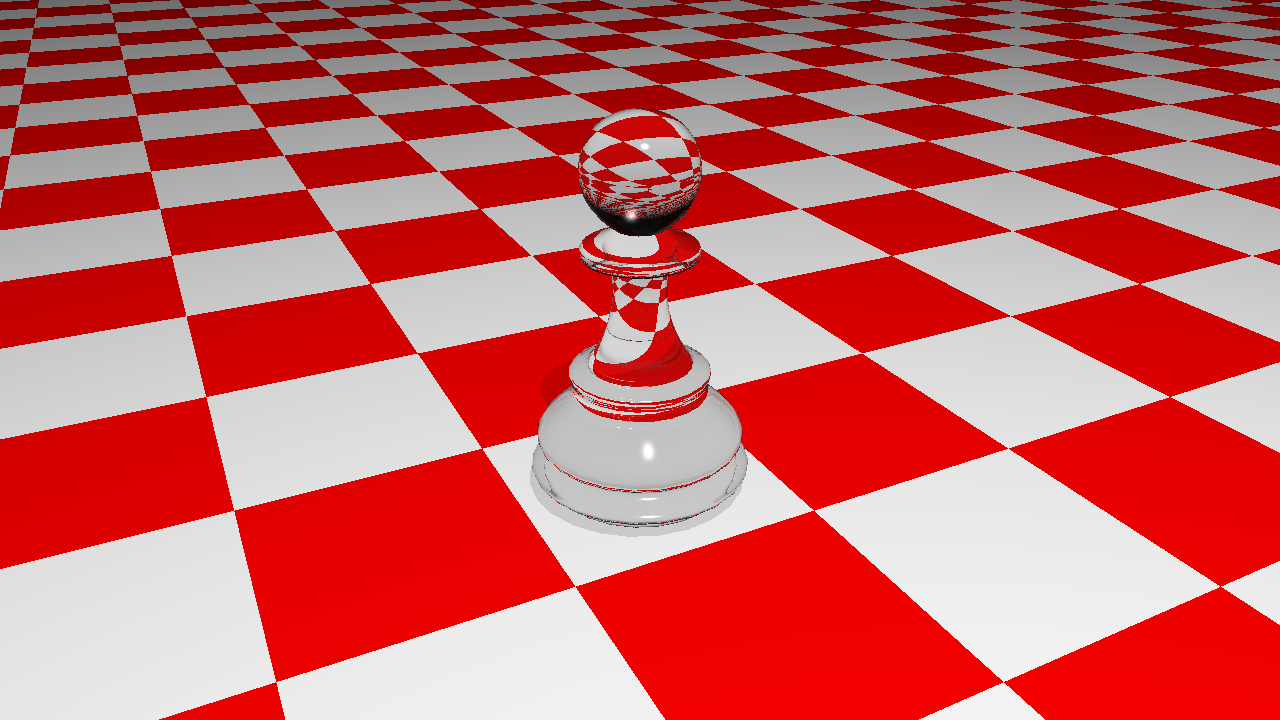
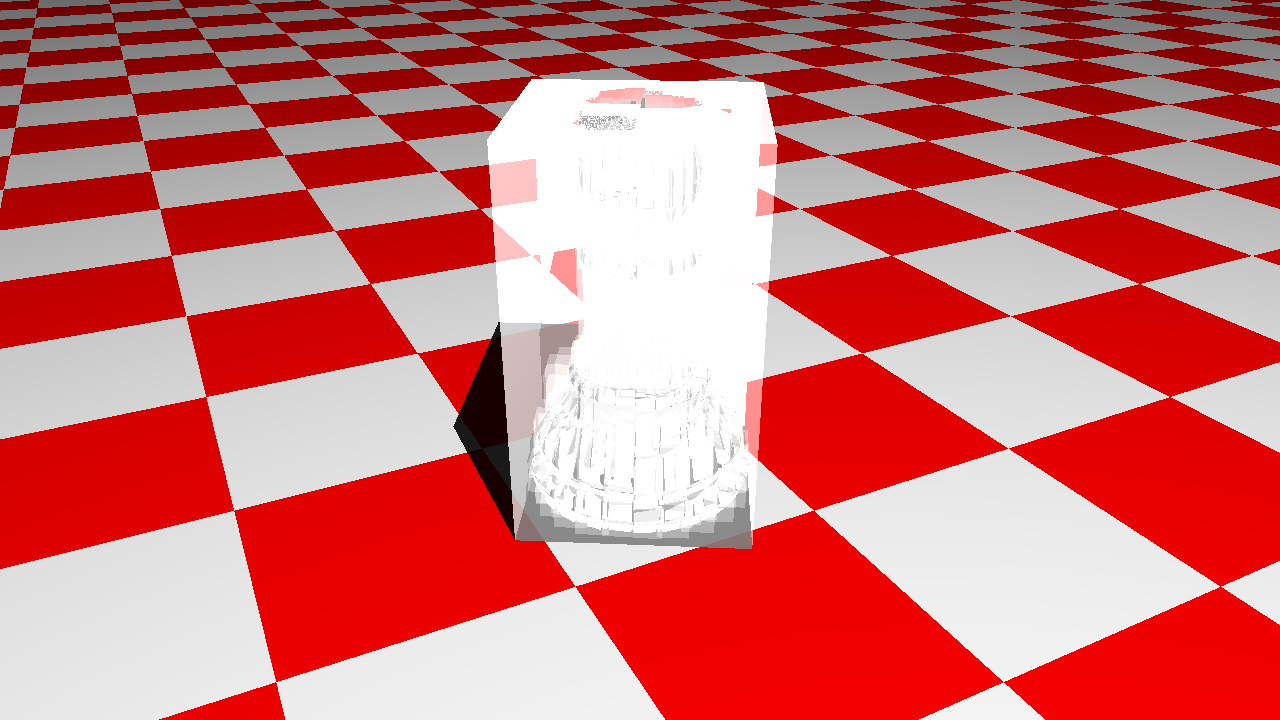
BV Debug renderer - pawn debug view

Changed region(s): [[0.3438, 0.0917, 0.625, 0.7639]]

diff --git a/ray_tracer/src/scene_tree/flatten.rs b/ray_tracer/src/scene_tree/flatten.rs
@@ -16,10 +16,10 @@ impl Default for FlattenSceneOptions {
         Self {
             bounding_volume_debug: BoundingVolumeDebug::Off,
         }
-    }    
+    }
 }
 
-impl From<RenderPreferences> for FlattenSceneOptions{
+impl From<RenderPreferences> for FlattenSceneOptions {
     fn from(value: RenderPreferences) -> Self {
         Self {
             bounding_volume_debug: value.bounding_volume_debug,
@@ -160,6 +160,24 @@ impl SceneTree {
                                     // TODO decide if we want this oversizing on the actual BV, not just the representation
                                     bounds2.matrix = bounds2.matrix * matrix4x4!(scale_all(1.01));
                                     bounds2.material.transparency = 0.9;
+                                    into.push(Chain::Shape(bounds2.to_intersectable()));
+                                }
+                                BoundingVolumeDebug::Solid => {
+                                    // display bounds
+                                    let mut bounds2 = bounds.clone();
+                                    // TODO decide if we want this oversizing on the actual BV, not just the representation
+                                    bounds2.matrix = bounds2.matrix * matrix4x4!(scale_all(1.01));
+                                    // keep only other subtrees
+                                    subtree = subtree
+                                        .into_iter()
+                                        .filter(|f| match f {
+                                            Chain::BoundingVolume(_, _) => true,
+                                            _ => false,
+                                        })
+                                        .collect();
+                                    if !subtree.is_empty() {
+                                        bounds2.material.transparency = 0.9;
+                                    }
                                     into.push(Chain::Shape(bounds2.to_intersectable()));
                                 }
                             }

diff --git a/demo/src/test_scenes/chess_pawn.rs b/demo/src/test_scenes/chess_pawn.rs
@@ -8,7 +8,7 @@ use ray_tracer::material::Material;
 use ray_tracer::material::pattern::Pattern;
 use ray_tracer::transform::Transform;
 use ray_tracer::view_matrix::ViewMatrix;
-use ray_tracer::world::World;
+use ray_tracer::world::{BoundingVolumeDebug, World};
 use ray_tracer::{plane, scene};
 use std::default::Default;
 
@@ -24,6 +24,7 @@ still!(
     };
     world: | world: &mut World | {
         world.add_light(PointLight::new(point!(2, 20, 10), *WHITE));
+        world.render_preferences.bounding_volume_debug = BoundingVolumeDebug::Translucent;
     };
     scene: {
         scene!(

diff --git a/demo/src/test_scenes/grid.rs b/demo/src/test_scenes/grid.rs
@@ -14,7 +14,7 @@ still!(
     camera: | size| Camera::new(size, degrees!(120));
     world: | world: &mut World | {
         world.add_light(PointLight::new(point!(10, 10, 7), *WHITE));
-        // world.render_preferences.bounding_volume_debug = BoundingVolumeDebug::Translucent;
+        world.render_preferences.bounding_volume_debug = BoundingVolumeDebug::Solid;
     };
     scene: {
         let mut root = SceneTree::default();

diff --git a/demo/src/obj_loader.rs b/demo/src/obj_loader.rs
@@ -58,9 +58,9 @@ impl ObjLoader {
 
         let m1 = complete_aabb.to_bounding_range();
         let m2 = complete_aabb2.to_bounding_range();
-        if m1 != m2 {
-            panic!("{:?} != {:?}", m1, m2)
-        }
+        // if m1 != m2 {
+        //     panic!("{:?} != {:?}", m1, m2)
+        // }
 
         Self::scene_bounded_by(scene, &complete_aabb)
     }

diff --git a/ray_tracer/src/world/preferences.rs b/ray_tracer/src/world/preferences.rs
@@ -4,6 +4,7 @@ use math::tuple::color::{Color, BLACK};
 pub enum BoundingVolumeDebug{
     Off,
     Translucent,
+    Solid,
 }
 
 #[derive(Copy, Clone)]
